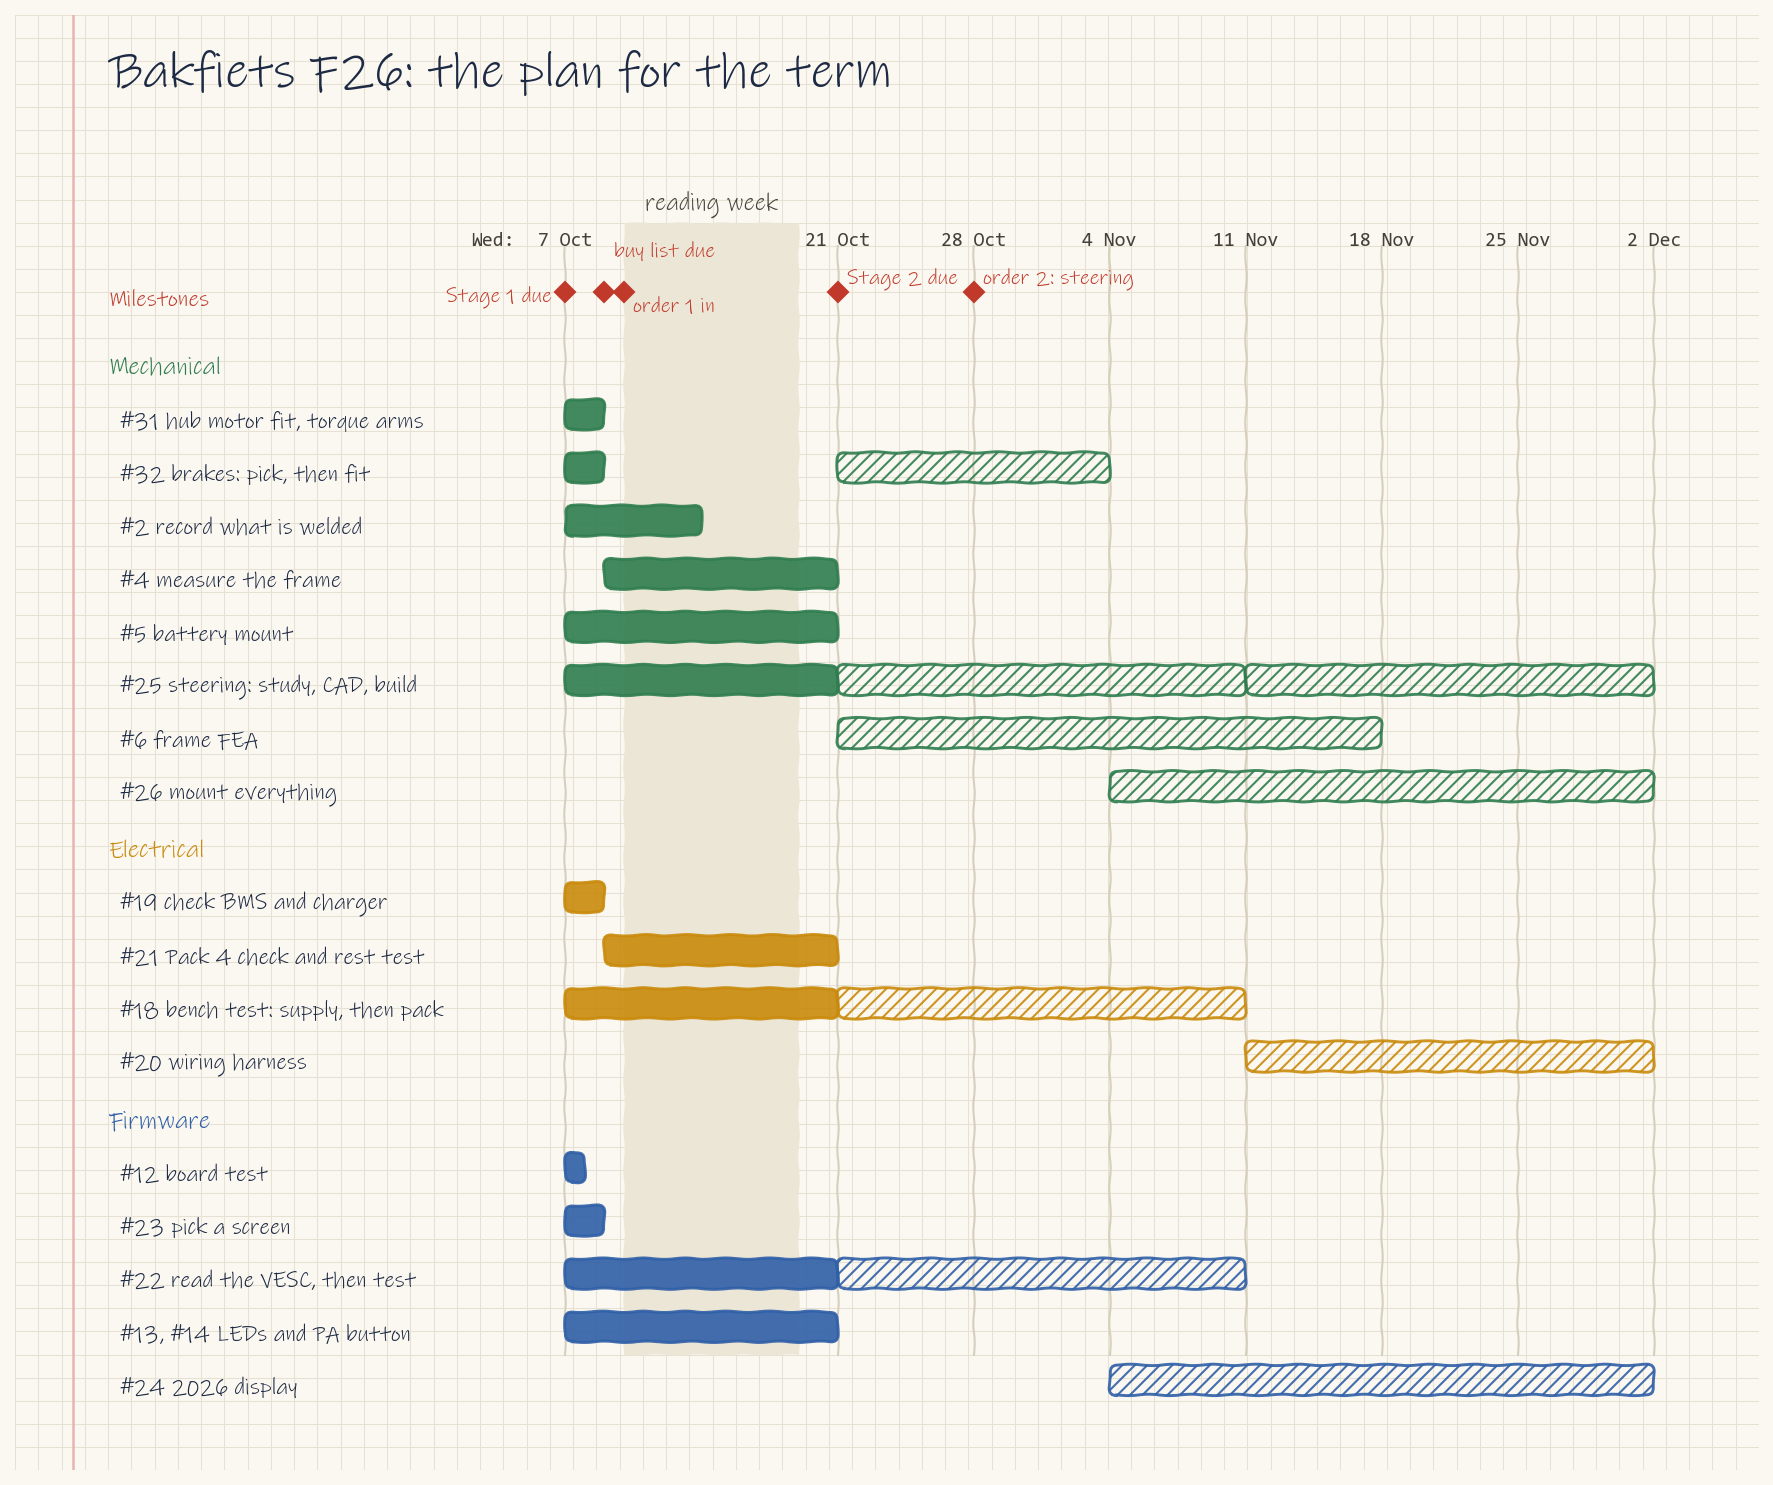
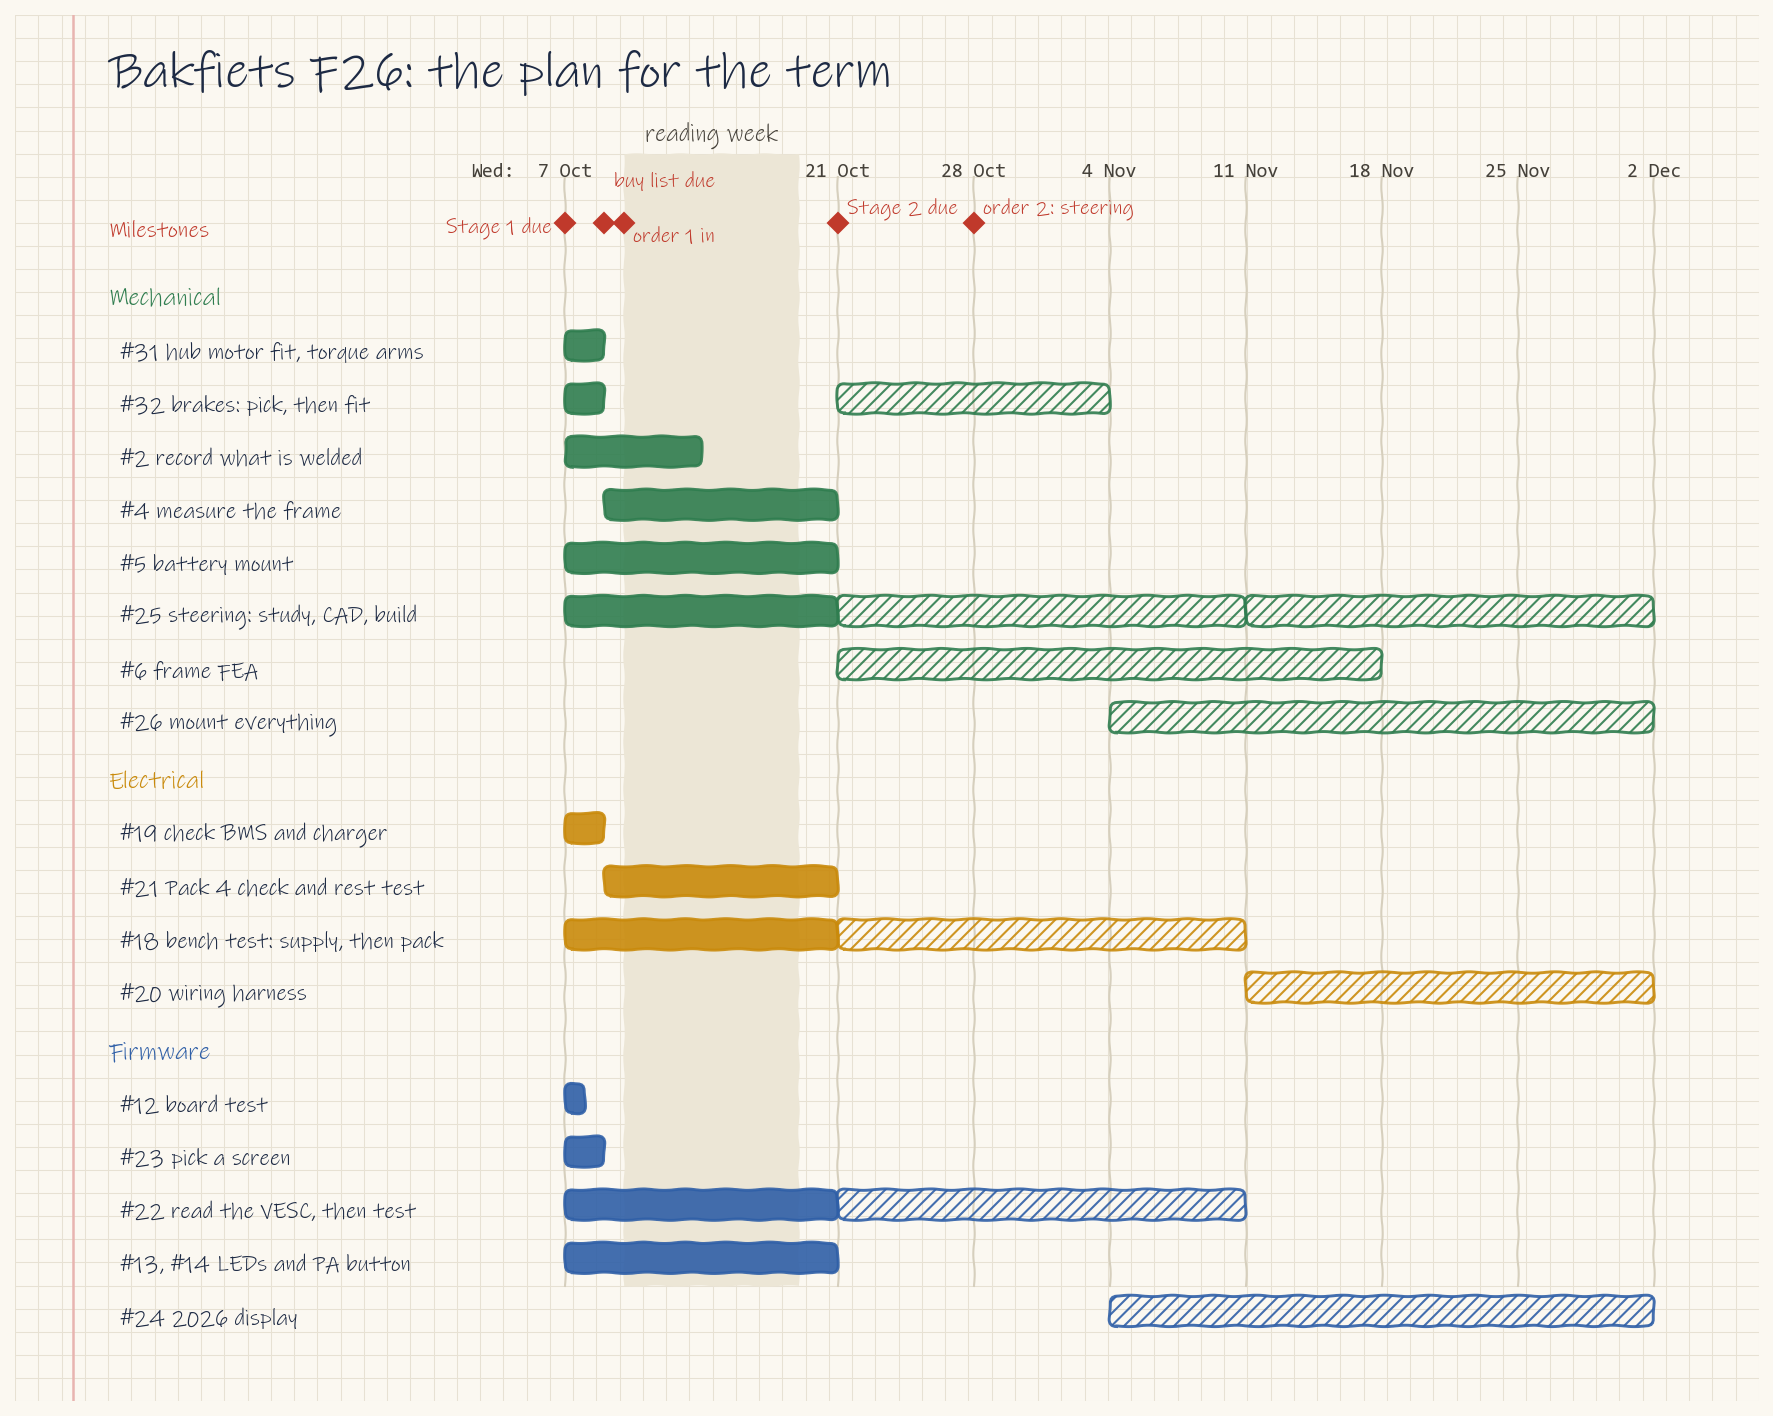
Gantt chart: drop subtitle and footnote, tighten layout

diff --git a/docs/diagrams/gantt-f26.py b/docs/diagrams/gantt-f26.py
@@ -38,11 +38,11 @@ rows = [
     ]),
 ]
 n_rows = sum(len(r[2]) + 1 for r in rows)
-H = int(round(34 + n_rows * 4.6))
+H = int(round(28 + n_rows * 4.6))
 fig, ax = page(150, H, (15, H / 10))
 note(ax, 8, H - 5, 'Bakfiets F26: the plan for the term', size=24, weight='bold')
 
-top = H - 22
+top = H - 16
 bottom = 10
 # reading week
 ax.add_patch(Rectangle((x(D(10, 10)), bottom), x(D(10, 19)) - x(D(10, 10)), top - bottom + 4, fc='#ece6d6', ec='none', zorder=0))
